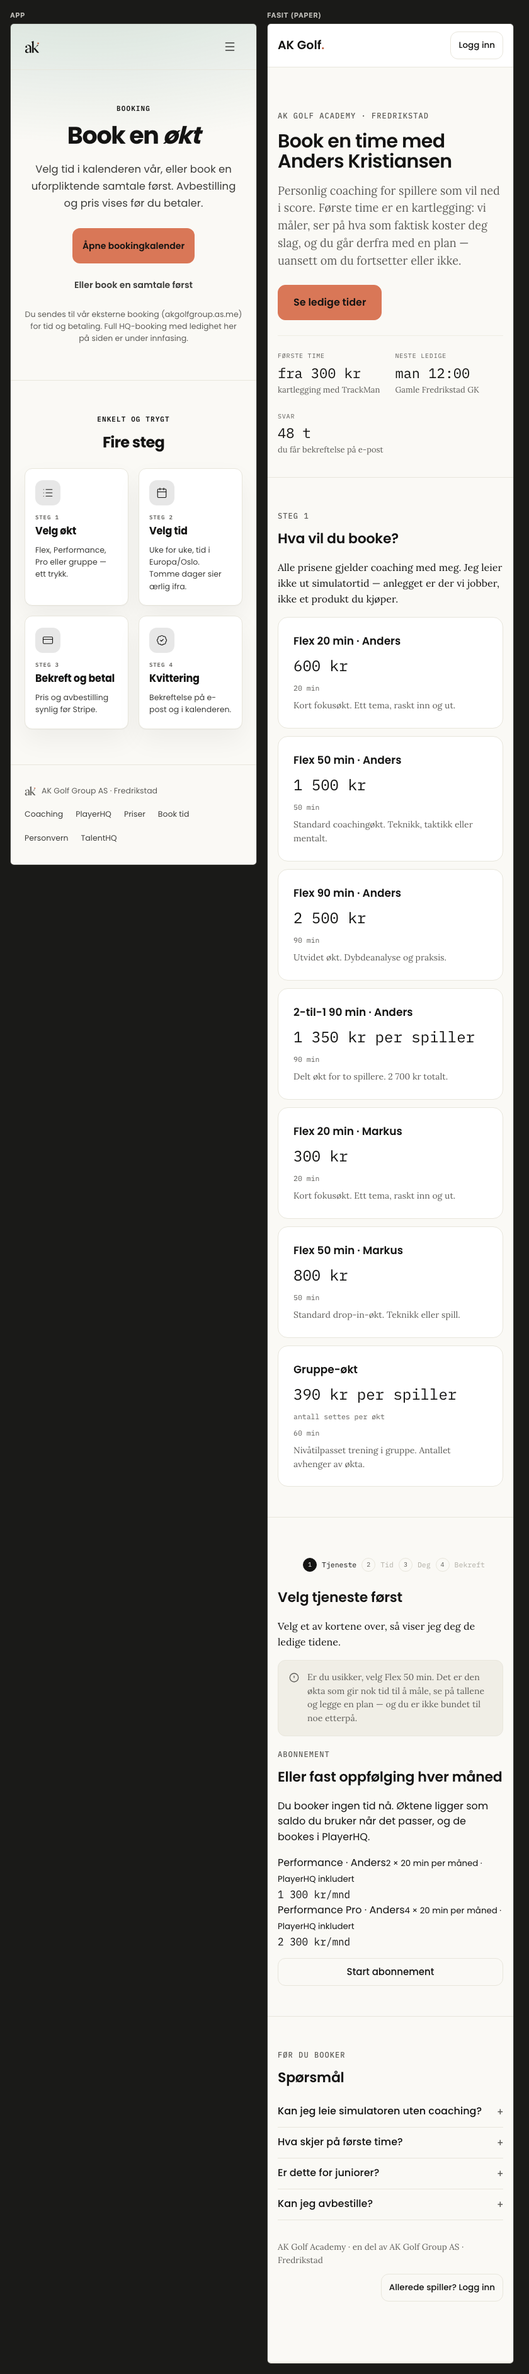
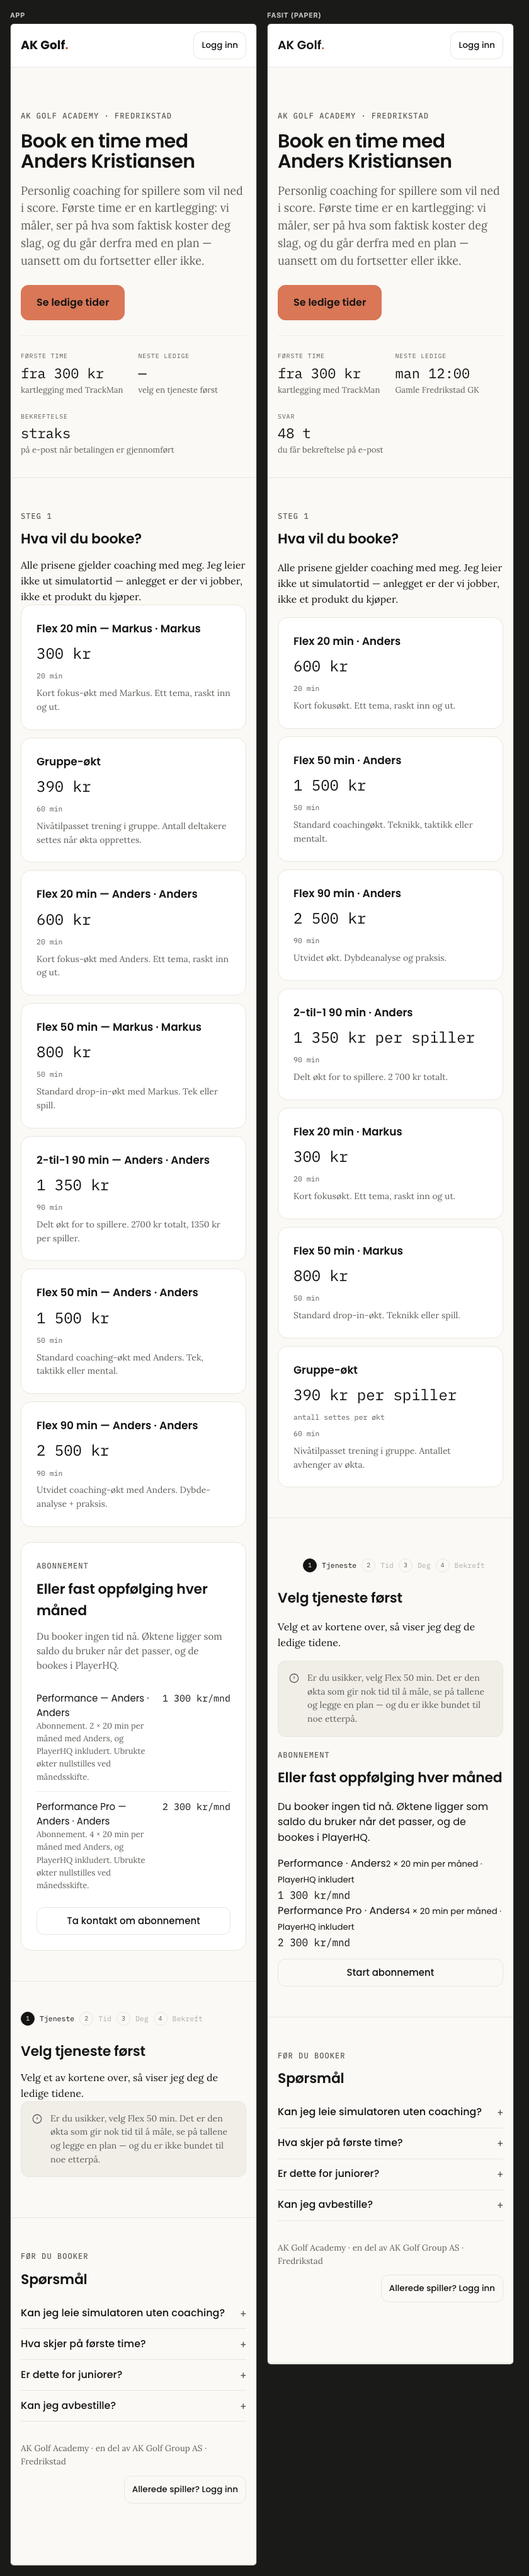
fix(paper): tre feil funnet i skjermbildene mot fasit (PP-1.7)
- Coach-navnet sto to ganger («Flex 20 min — Markus · Markus»). Flere
  tjenestenavn i basen bærer allerede coachen; da settes den ikke på igjen.
- Kortene lå i ren prisrekkefølge og blandet coachene. Fasiten tar én coach
  av gangen — Anders, så Markus, gruppe-økter til slutt.
- Heroens «Neste ledige» sto som «—» til kunden valgte en tjeneste. Den
  regnes nå på server for den billigste økta, som er den samme økta
  fra-prisen ved siden av gjelder.

diff --git a/src/app/(marketing)/booking/page.tsx b/src/app/(marketing)/booking/page.tsx
@@ -11,6 +11,7 @@
 import type { Metadata } from "next";
 import { prisma } from "@/lib/prisma";
 import { BOOKING_ACUITY_URL, kanBrukeInnebygdBooking } from "@/lib/booking/offentlig-booking";
+import { finnNesteLedige } from "./ledige-tider";
 import { MarkedBookingV2 } from "@/components/marketing/v2/MarkedBookingV2";
 import {
   MarkedBookingPaperV2,
@@ -32,6 +33,28 @@ function erAbonnement(name: string): boolean {
 function fornavn(navn: string | null | undefined): string | null {
   if (!navn) return null;
   return navn.trim().split(/\s+/)[0] || null;
+}
+
+/**
+ * Flere tjenestenavn i basen bærer allerede coachen («Flex 20 min — Markus»).
+ * Da skal den ikke settes på én gang til — ellers står det «… — Markus · Markus».
+ */
+function coachEtikett(tjenestenavn: string, coach: string | null): string | null {
+  if (!coach) return null;
+  return tjenestenavn.toLowerCase().includes(coach.toLowerCase()) ? null : coach;
+}
+
+/**
+ * Fasitens rekkefølge: én coach av gangen (Anders før Markus), billigste først
+ * innenfor hver, og gruppe-økter uten coach til slutt. Ren pris-sortering
+ * blandet coachene om hverandre.
+ */
+function sorterSomFasit<T extends { coachNavn: string | null; pris: number }>(a: T, b: T): number {
+  if ((a.coachNavn === null) !== (b.coachNavn === null)) return a.coachNavn === null ? 1 : -1;
+  if (a.coachNavn && b.coachNavn && a.coachNavn !== b.coachNavn) {
+    return a.coachNavn.localeCompare(b.coachNavn, "nb");
+  }
+  return a.pris - b.pris;
 }
 
 // Fasiten låser flaten til én lokasjon ved lansering. Navnet leses fra samme
@@ -69,30 +92,38 @@ export default async function BookingLanding() {
     .map((s) => ({
       slug: s.slug,
       navn: s.name,
-      coachNavn: fornavn(s.coach?.name),
+      coachNavn: coachEtikett(s.name, fornavn(s.coach?.name)),
       pris: Math.round(s.priceOre / 100),
       // ServiceType har ingen kolonne for prisenhet, så flaten sier «kr» og lar
       // beskrivelsen fra basen bære nyansen (delt økt, per spiller osv.).
       enhet: "kr",
       varighetMin: s.durationMin,
       beskrivelse: s.description,
-    }));
+    }))
+    .sort(sorterSomFasit);
 
   const abonnement: PaperAbonnement[] = services
     .filter((s) => erAbonnement(s.name))
     .map((s) => ({
       slug: s.slug,
       navn: s.name,
-      coachNavn: fornavn(s.coach?.name),
+      coachNavn: coachEtikett(s.name, fornavn(s.coach?.name)),
       pris: Math.round(s.priceOre / 100),
       beskrivelse: s.description,
-    }));
+    }))
+    .sort(sorterSomFasit);
+
+  // Heroens «Neste ledige» skal vise et ekte tidspunkt med en gang. Vi spør for
+  // den billigste økta — den er også fra-prisen heroen viser, så tallene hører
+  // sammen. Oppslaget bryter på første ledige dag.
+  const nesteLedig = tjenester.length ? await finnNesteLedige(tjenester[0].slug) : null;
 
   return (
     <MarkedBookingPaperV2
       tjenester={tjenester}
       abonnement={abonnement}
       lokasjon={lokasjonRad?.name ?? LOKASJON_FALLBACK}
+      nesteLedigInit={nesteLedig?.tekst ?? null}
     />
   );
 }

diff --git a/src/components/marketing/v2/MarkedBookingPaperV2.tsx b/src/components/marketing/v2/MarkedBookingPaperV2.tsx
@@ -42,6 +42,8 @@ export interface MarkedBookingPaperV2Props {
   tjenester: PaperTjeneste[];
   abonnement: PaperAbonnement[];
   lokasjon: string;
+  /** Første ledige luke for den billigste økta, regnet på server. */
+  nesteLedigInit: string | null;
 }
 
 type Steg = "tjeneste" | "tid" | "deg" | "bekreft";
@@ -62,6 +64,7 @@ export function MarkedBookingPaperV2({
   tjenester,
   abonnement,
   lokasjon,
+  nesteLedigInit,
 }: MarkedBookingPaperV2Props) {
   const [steg, setSteg] = useState<Steg>("tjeneste");
   const [valgtSlug, setValgtSlug] = useState<string | null>(null);
@@ -122,13 +125,16 @@ export function MarkedBookingPaperV2({
     [tjenester],
   );
 
-  /* Neste ledige er ukjent før en tjeneste er valgt — ledigheten er coachens,
-     og coachen følger tjenesten. Fasiten viser «—» i samme situasjon. */
+  /* Serveren har regnet neste ledige for den billigste økta. Så snart kunden
+     velger en tjeneste, er det DEN coachens ledighet som gjelder — da tar de
+     lastede dagene over. */
   const nesteLedig = useMemo(() => {
-    const d = dager.find((x) => x.tider.length);
-    if (!d) return null;
-    return { tekst: `${d.dw} ${d.tider[0].kl}`, sted: lokasjon };
-  }, [dager, lokasjon]);
+    if (dager.length) {
+      const d = dager.find((x) => x.tider.length);
+      return d ? { tekst: `${d.dw} ${d.tider[0].kl}`, sted: lokasjon } : null;
+    }
+    return nesteLedigInit ? { tekst: nesteLedigInit, sted: lokasjon } : null;
+  }, [dager, lokasjon, nesteLedigInit]);
 
   const rullTilBook = useCallback(() => {
     bookRef.current?.scrollIntoView({ behavior: "smooth", block: "start" });
@@ -303,9 +309,7 @@ export function MarkedBookingPaperV2({
               <div>
                 <span className="k">Neste ledige</span>
                 <span className="v">{nesteLedig?.tekst ?? "—"}</span>
-                <span className="w">
-                  {nesteLedig?.sted ?? (valgtSlug ? "ingen ledige tider" : "velg en tjeneste først")}
-                </span>
+                <span className="w">{nesteLedig?.sted ?? "ingen ledige tider"}</span>
               </div>
               <div>
                 <span className="k">Bekreftelse</span>

diff --git a/src/app/(marketing)/booking/ledige-tider.ts b/src/app/(marketing)/booking/ledige-tider.ts
@@ -46,6 +46,37 @@ export type LedigDag = {
   tider: LedigTid[];
 };
 
+/**
+ * Første ledige luke for én tjeneste. Brukes av heroens «Neste ledige», som
+ * skal vise et ekte tidspunkt allerede ved første visning — fasiten har tallet
+ * der. Løkka bryter på første treff, så i praksis er dette ett oppslag.
+ */
+export async function finnNesteLedige(
+  slug: string,
+): Promise<{ tekst: string } | null> {
+  publicAction();
+  if (!(await kanBrukeInnebygdBooking())) return null;
+
+  const service = await prisma.serviceType.findUnique({ where: { slug } });
+  if (!service || !service.active) return null;
+
+  const idag = new Date();
+  idag.setHours(0, 0, 0, 0);
+
+  for (let i = 0; i < DAGER_FRAM; i++) {
+    const d = new Date(idag);
+    d.setDate(d.getDate() + i);
+    const alle = await getAvailableSlots(service.id, d);
+    const slots = service.coachUserId
+      ? alle.filter((s) => s.coachId === service.coachUserId)
+      : alle;
+    if (slots.length) {
+      return { tekst: `${ukedag.format(d).replace(".", "")} ${klokke.format(slots[0].start)}` };
+    }
+  }
+  return null;
+}
+
 export async function hentLedigeDager(slug: string): Promise<LedigDag[]> {
   // Bevisst åpen for uinnloggede: bookingsiden er inngangen for folk uten
   // konto, og ledige luker er offentlig informasjon. Ingen persondata leses.
